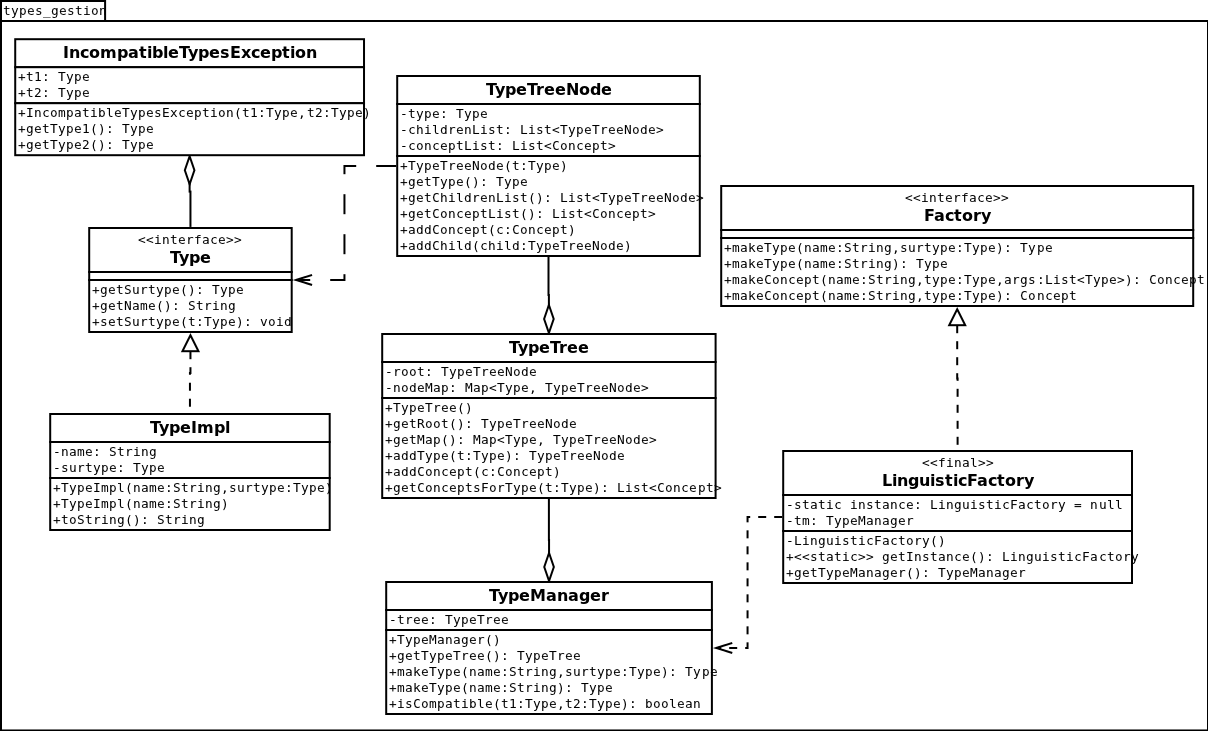
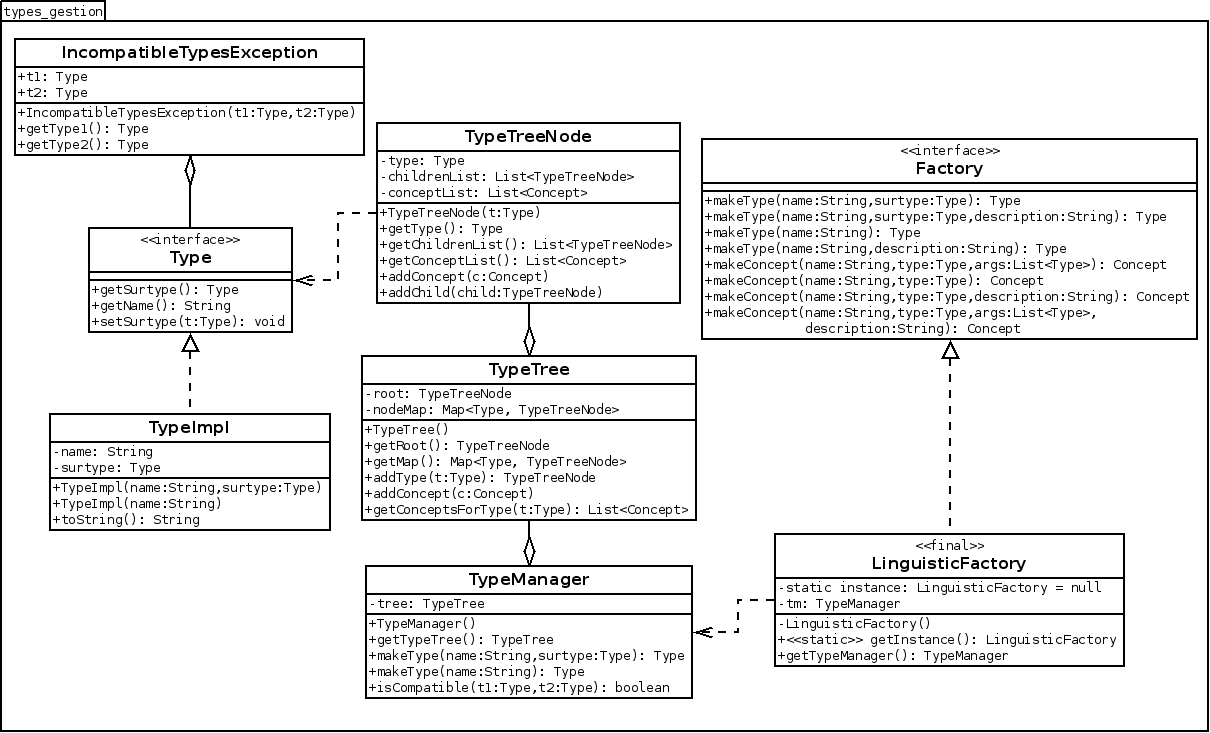
modif diagrammes de classes + cas d'utilisation

Changed region(s): [[0.0, 0.0, 1.0, 1.0], [0.0613, 0.2709, 0.2757, 0.4815], [0.6432, 0.6019, 0.6738, 0.632]]

diff --git a/GAT/src/linguistic/conceptsGestion/ConceptComplex.java b/GAT/src/linguistic/conceptsGestion/ConceptComplex.java
@@ -36,7 +36,6 @@ public class ConceptComplex extends ConceptAbstract {
 		return this.arguments;
 	}
 
-	// qq peut expliquer comment fonctionne cette methode ?
 	public void setSyntoxInput(Map<String, Type> map){
 		this.syntox = map;
 	}
